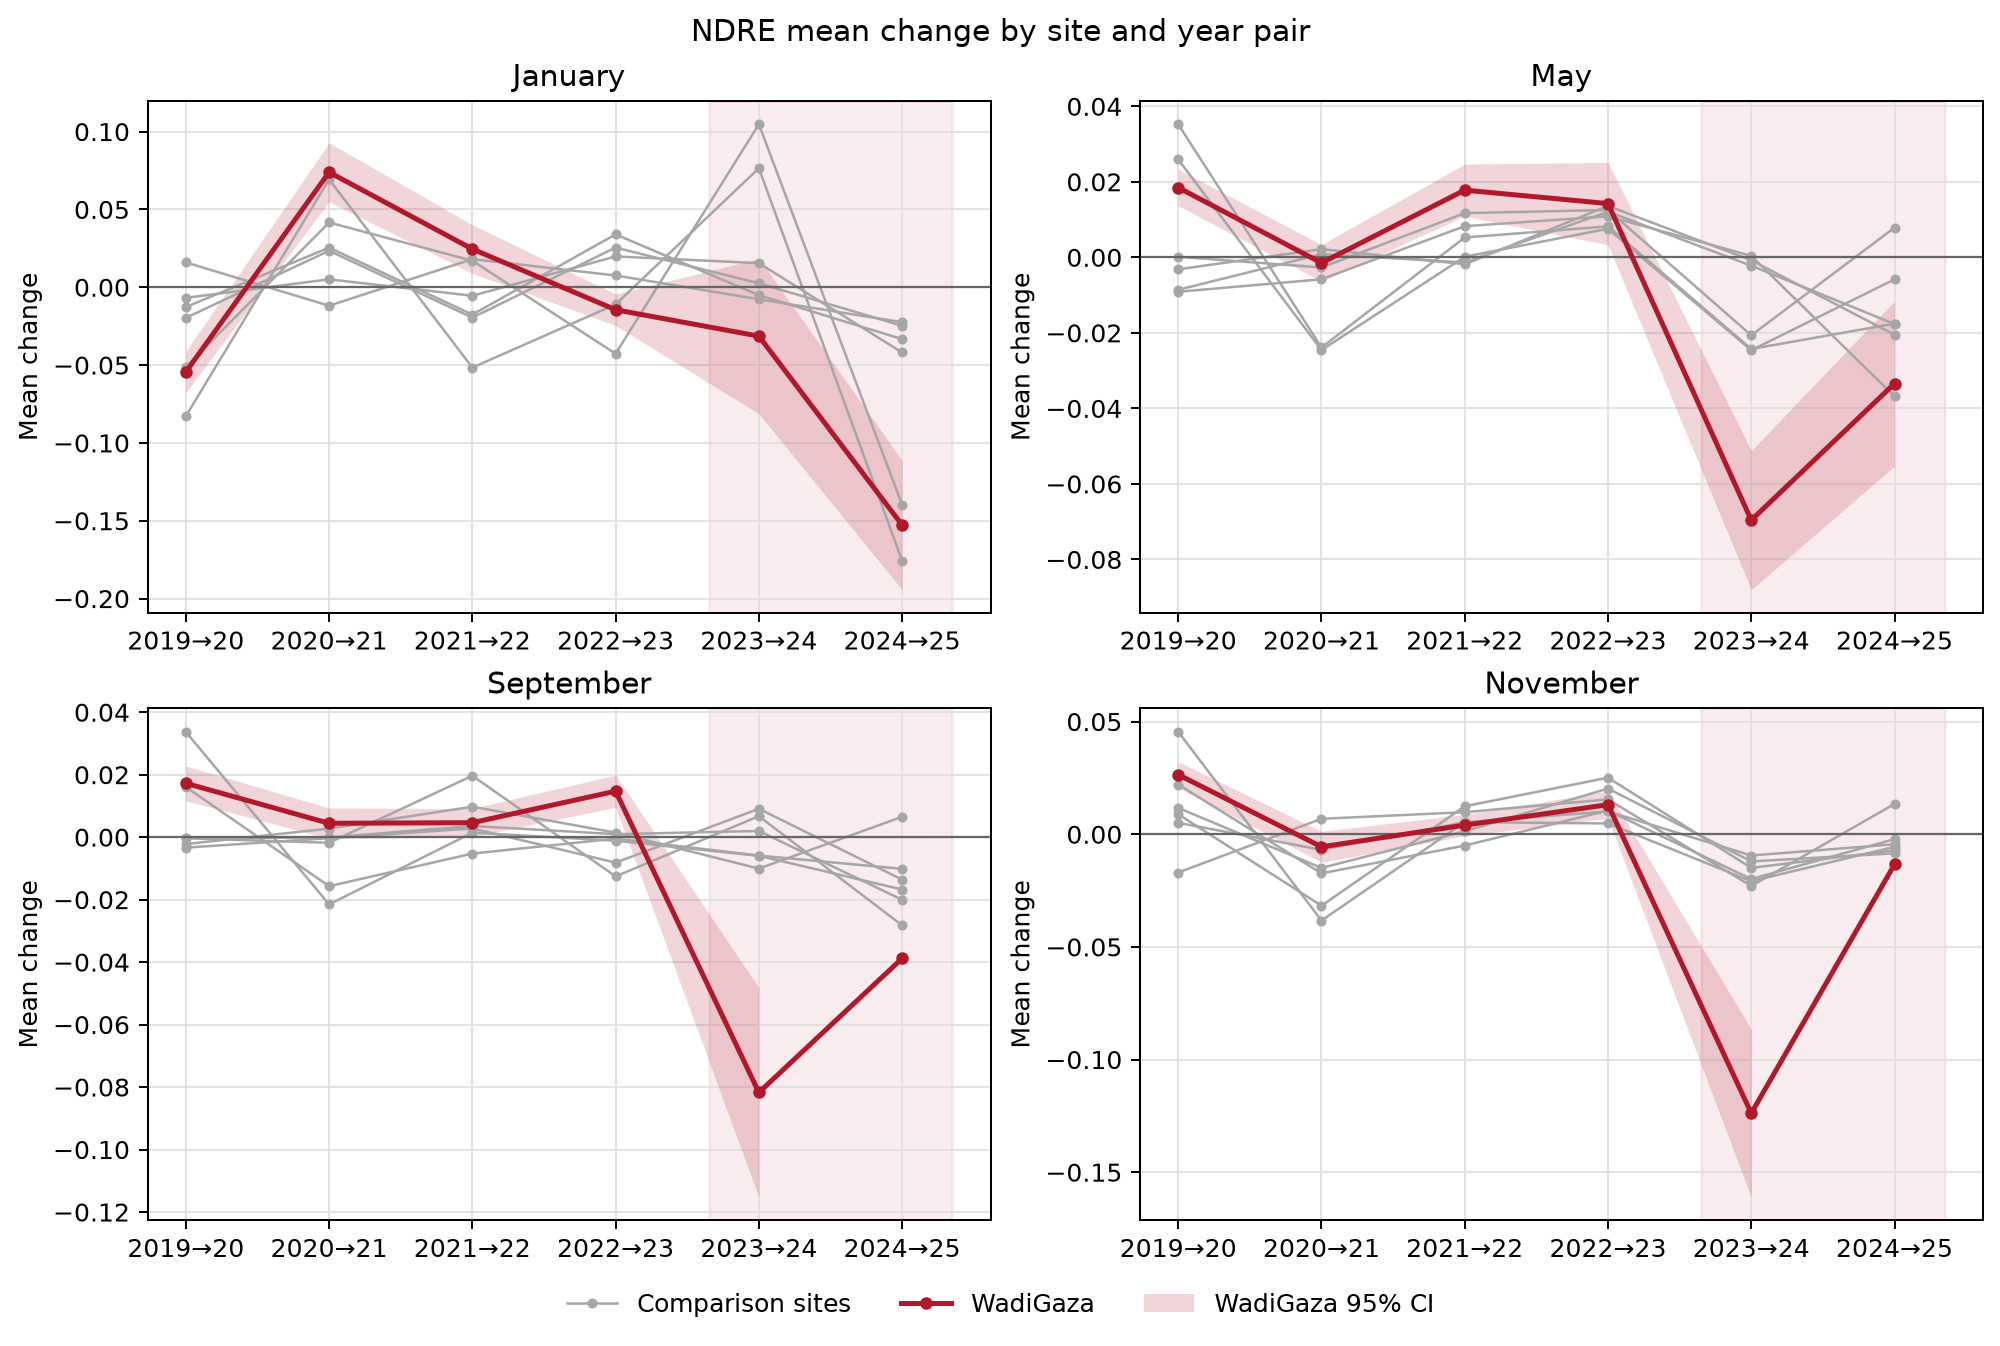
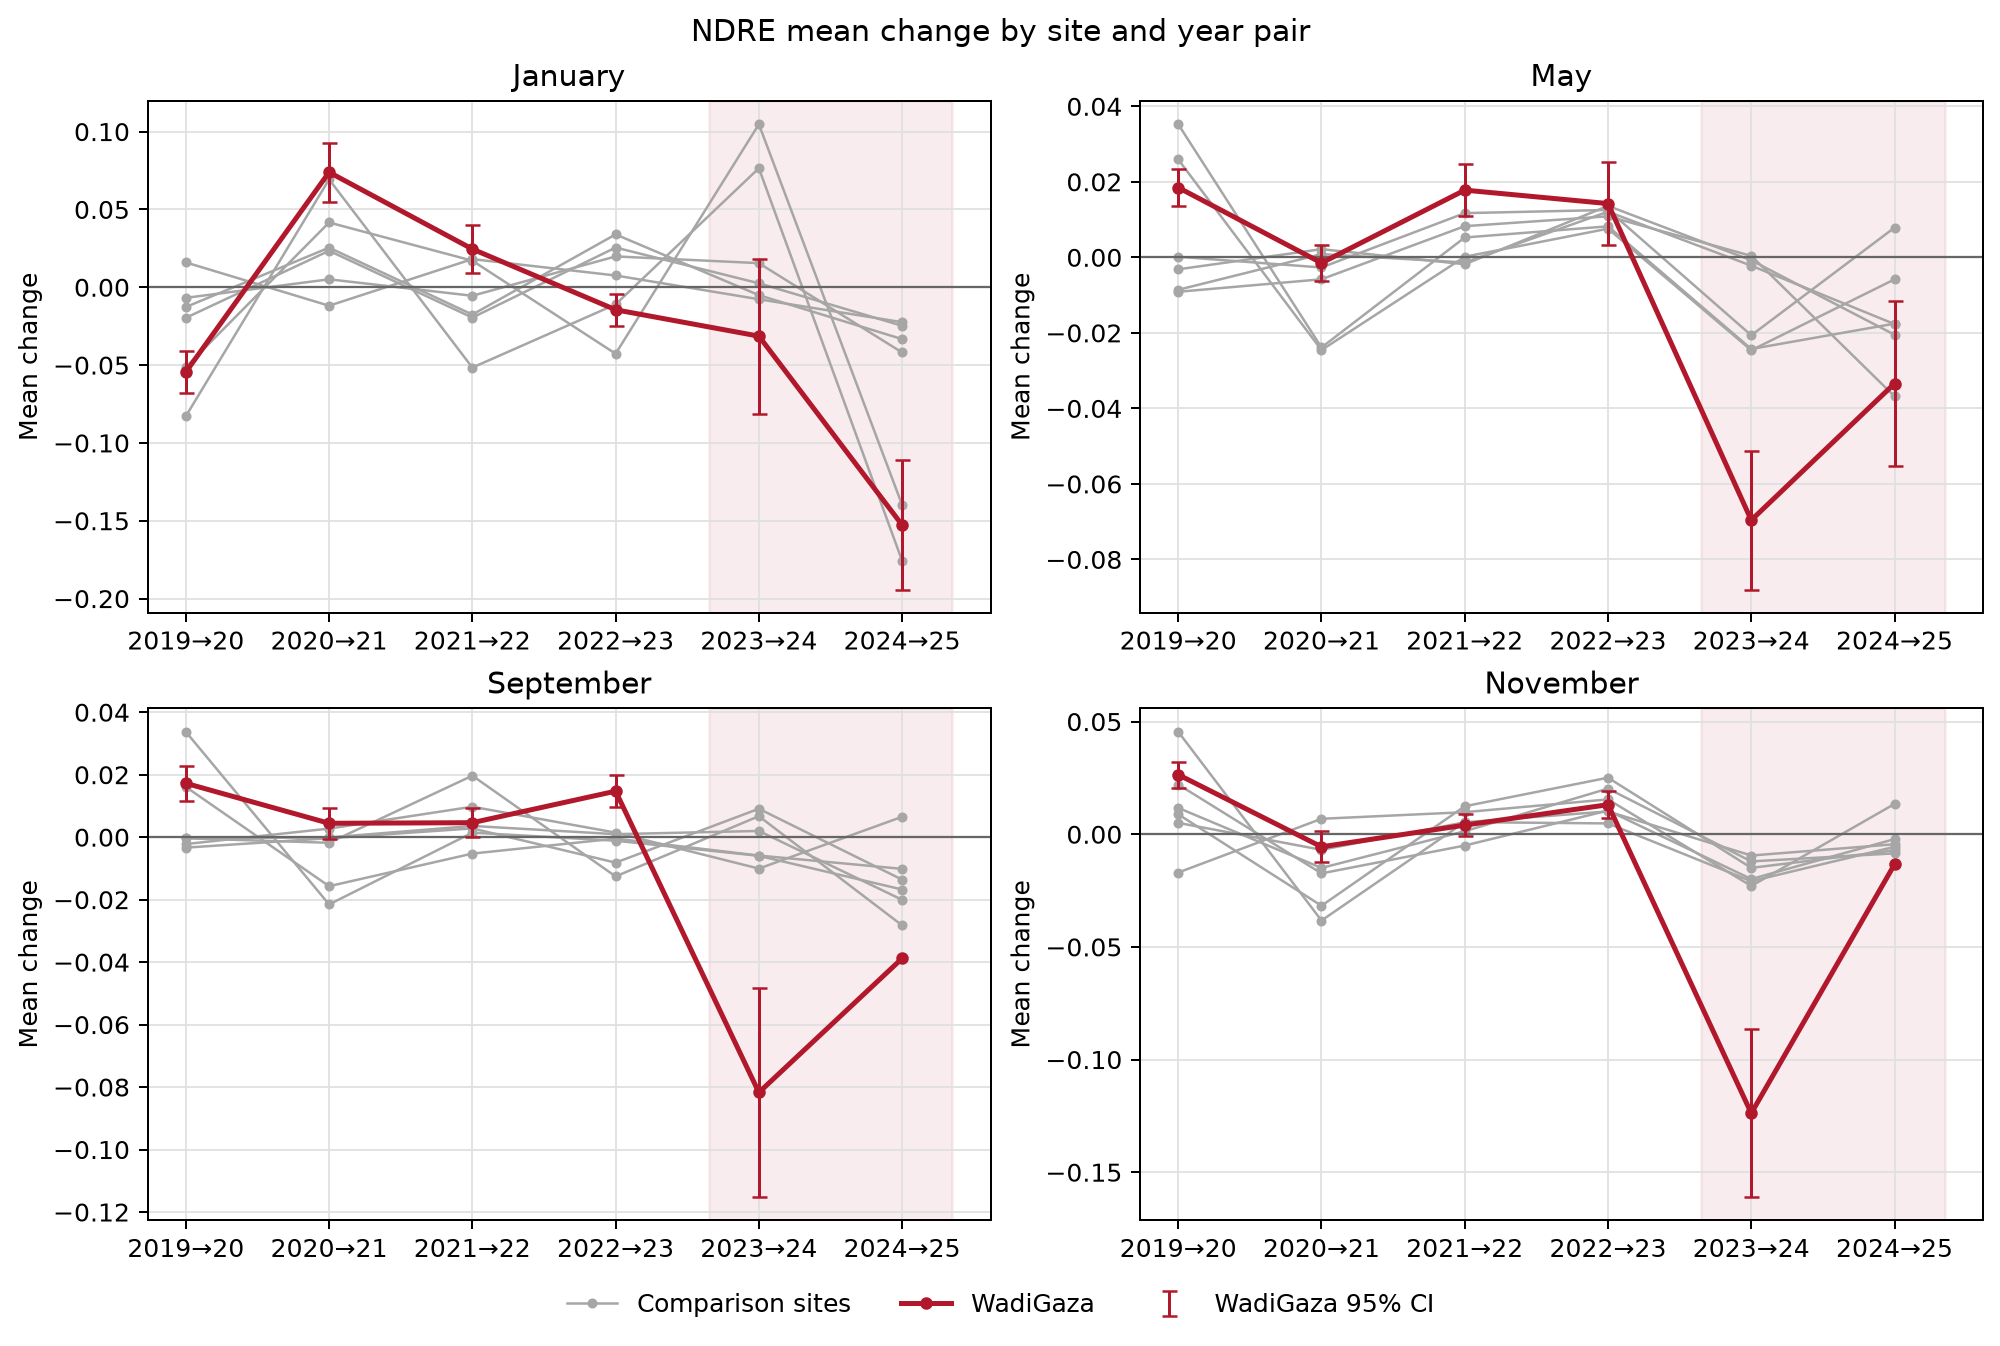
error bars in change trajectories

diff --git a/src/change_did/plotting.py b/src/change_did/plotting.py
@@ -168,8 +168,8 @@ def plot_change_trajectories(
     ``results`` holds one index's change-CI rows; primary-tau rows are selected
     when ``is_primary_tau`` is present. Comparison sites are drawn in muted
     grey, the affected site in the highlight colour with its spatially adjusted
-    95% CI band (``ci_low``/``ci_high``) when present, and the event year pairs
-    are shaded.
+    95% CI as error bars (``ci_low``/``ci_high``) when present, and the event
+    year pairs are shaded.
     """
     frame = results.copy()
     if "is_primary_tau" in frame:
@@ -198,13 +198,14 @@ def plot_change_trajectories(
             if is_affected and {"ci_low", "ci_high"} <= set(series.columns):
                 low = series["ci_low"].to_numpy(dtype=float)
                 high = series["ci_high"].to_numpy(dtype=float)
-                valid = np.isfinite(low) & np.isfinite(high)
+                mean = series["mean_change"].to_numpy(dtype=float)
+                valid = np.isfinite(low) & np.isfinite(high) & np.isfinite(mean)
                 if valid.any():
-                    ax.fill_between(
-                        series["year_start"].to_numpy(dtype=float), low, high,
-                        where=valid, interpolate=True, color=REAL_COLOR,
-                        alpha=0.18, linewidth=0, zorder=1,
-                        label=f"{affected_site} 95% CI",
+                    ax.errorbar(
+                        series["year_start"].to_numpy(dtype=float)[valid], mean[valid],
+                        yerr=[mean[valid] - low[valid], high[valid] - mean[valid]],
+                        fmt="none", ecolor=REAL_COLOR, elinewidth=1.2, capsize=3,
+                        zorder=4, label=f"{affected_site} 95% CI",
                     )
         ax.axhline(0.0, color="0.4", linewidth=0.9)
         ax.set_xticks(
